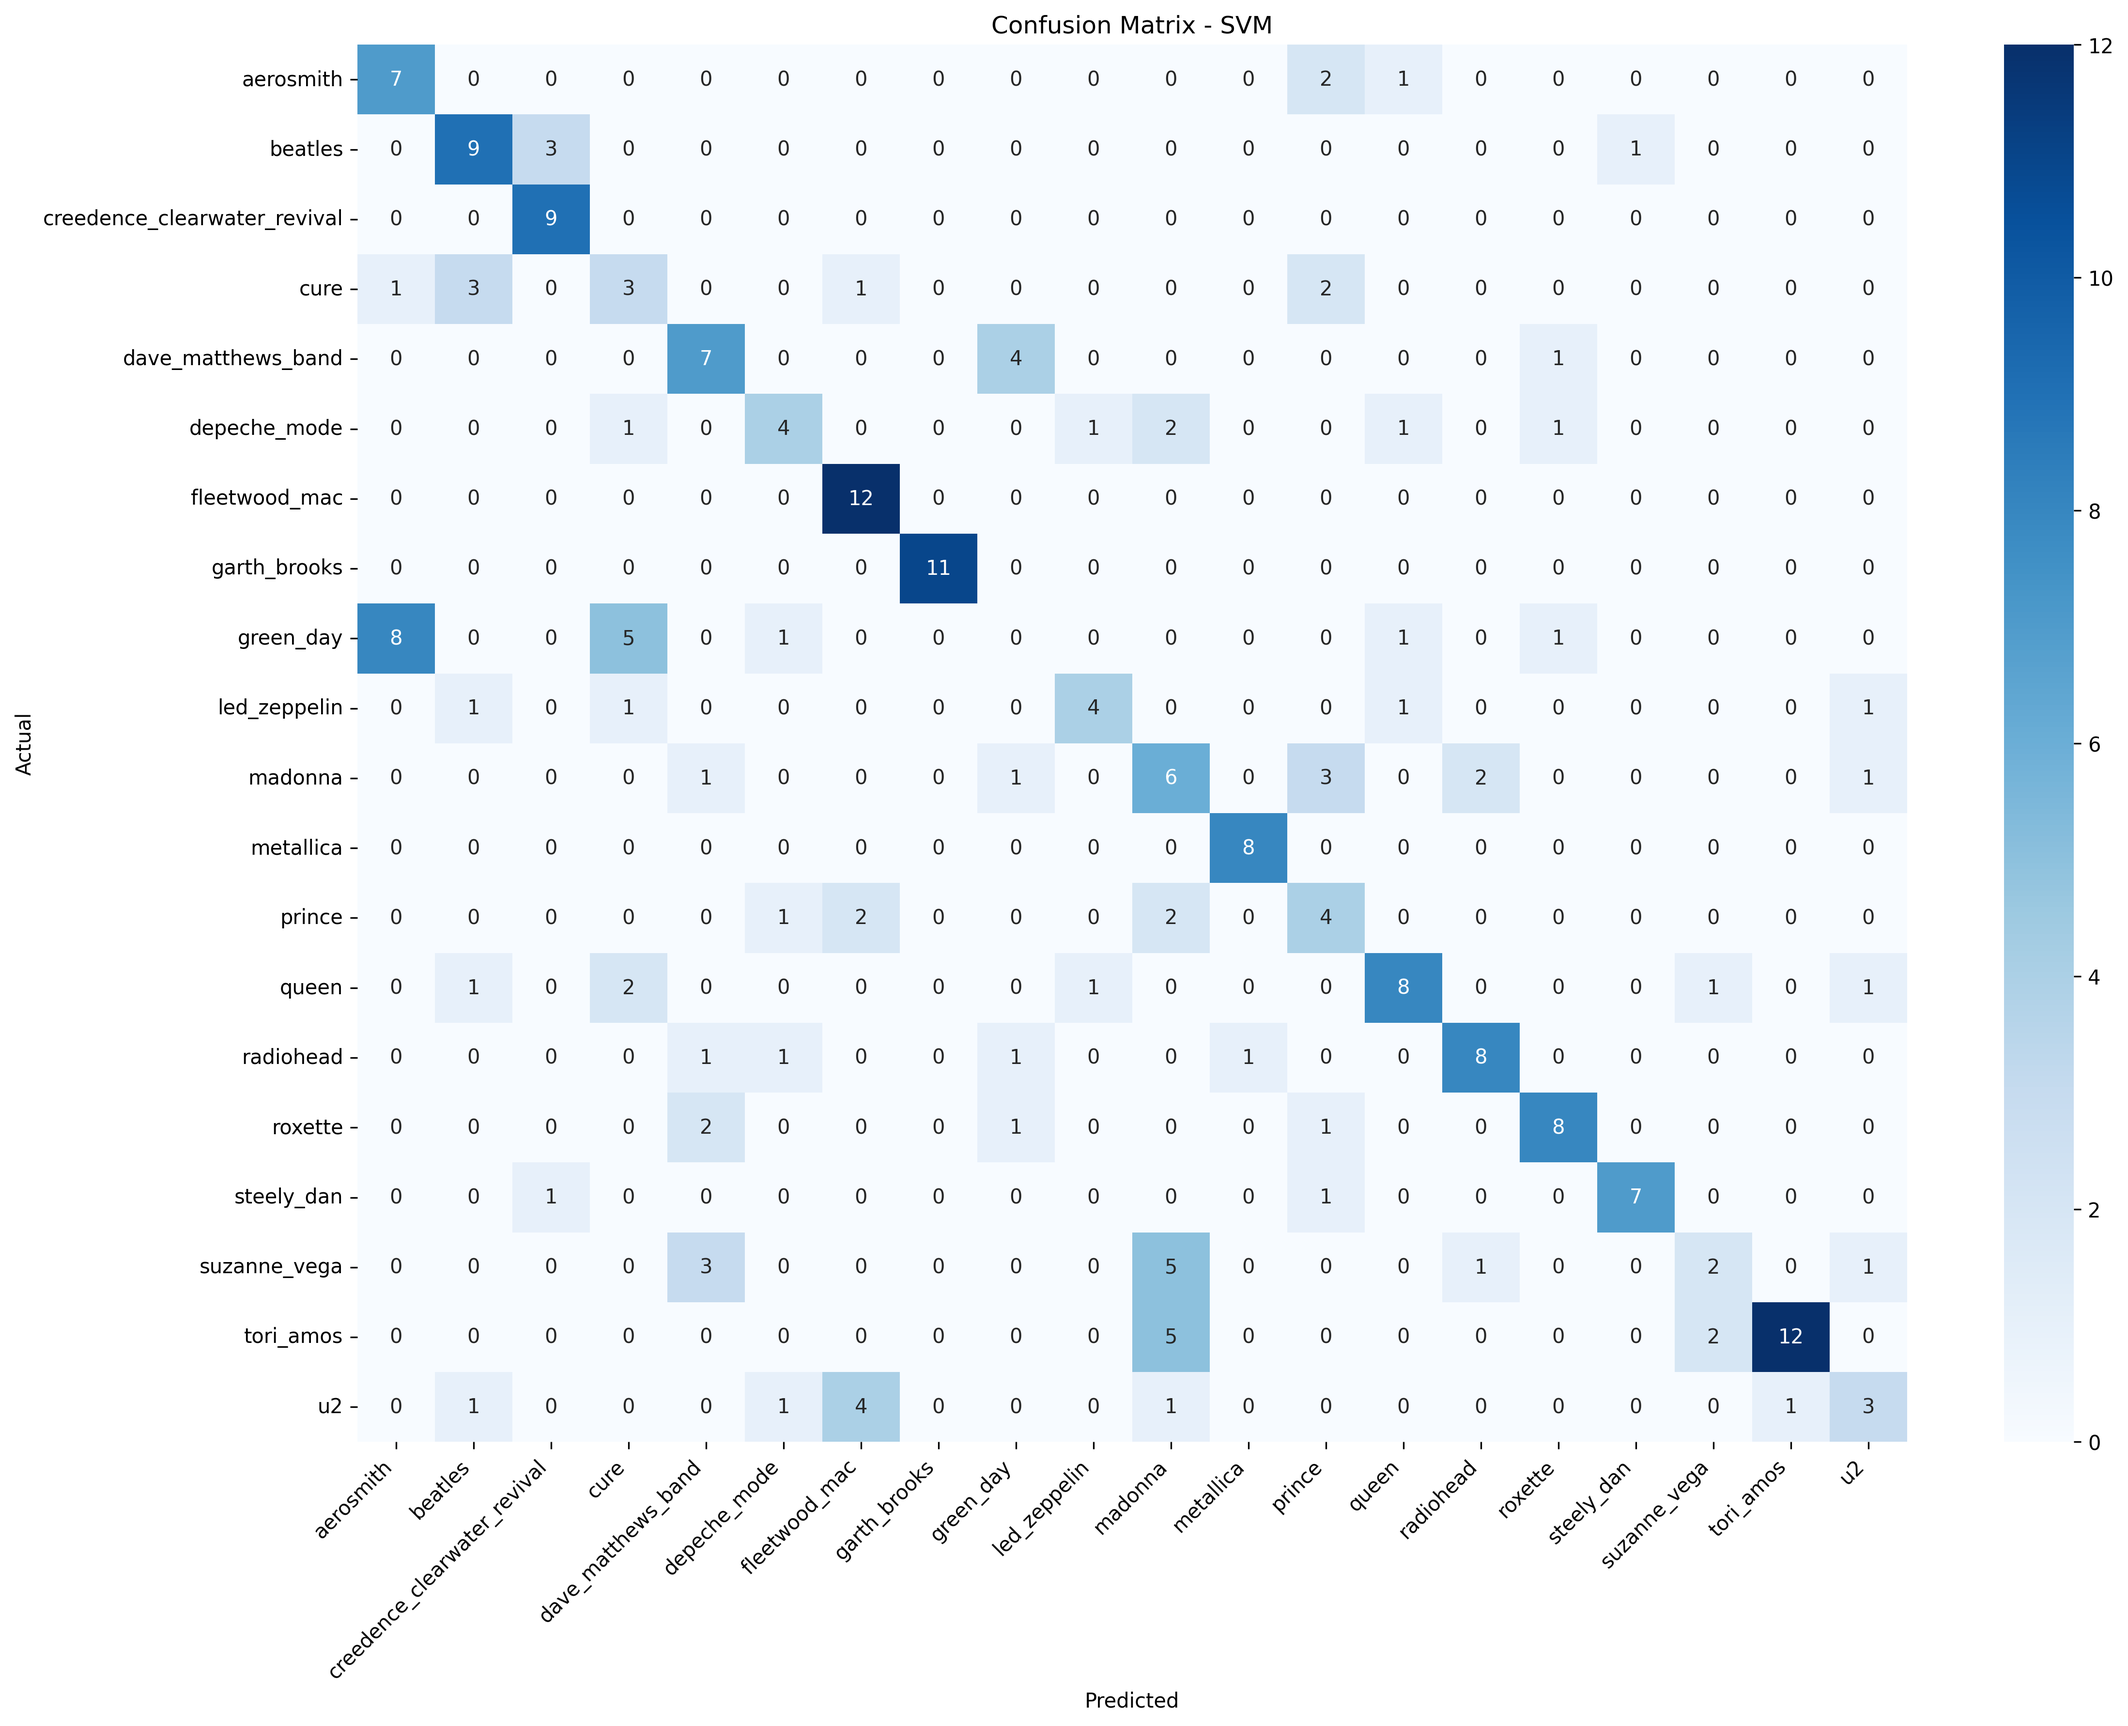
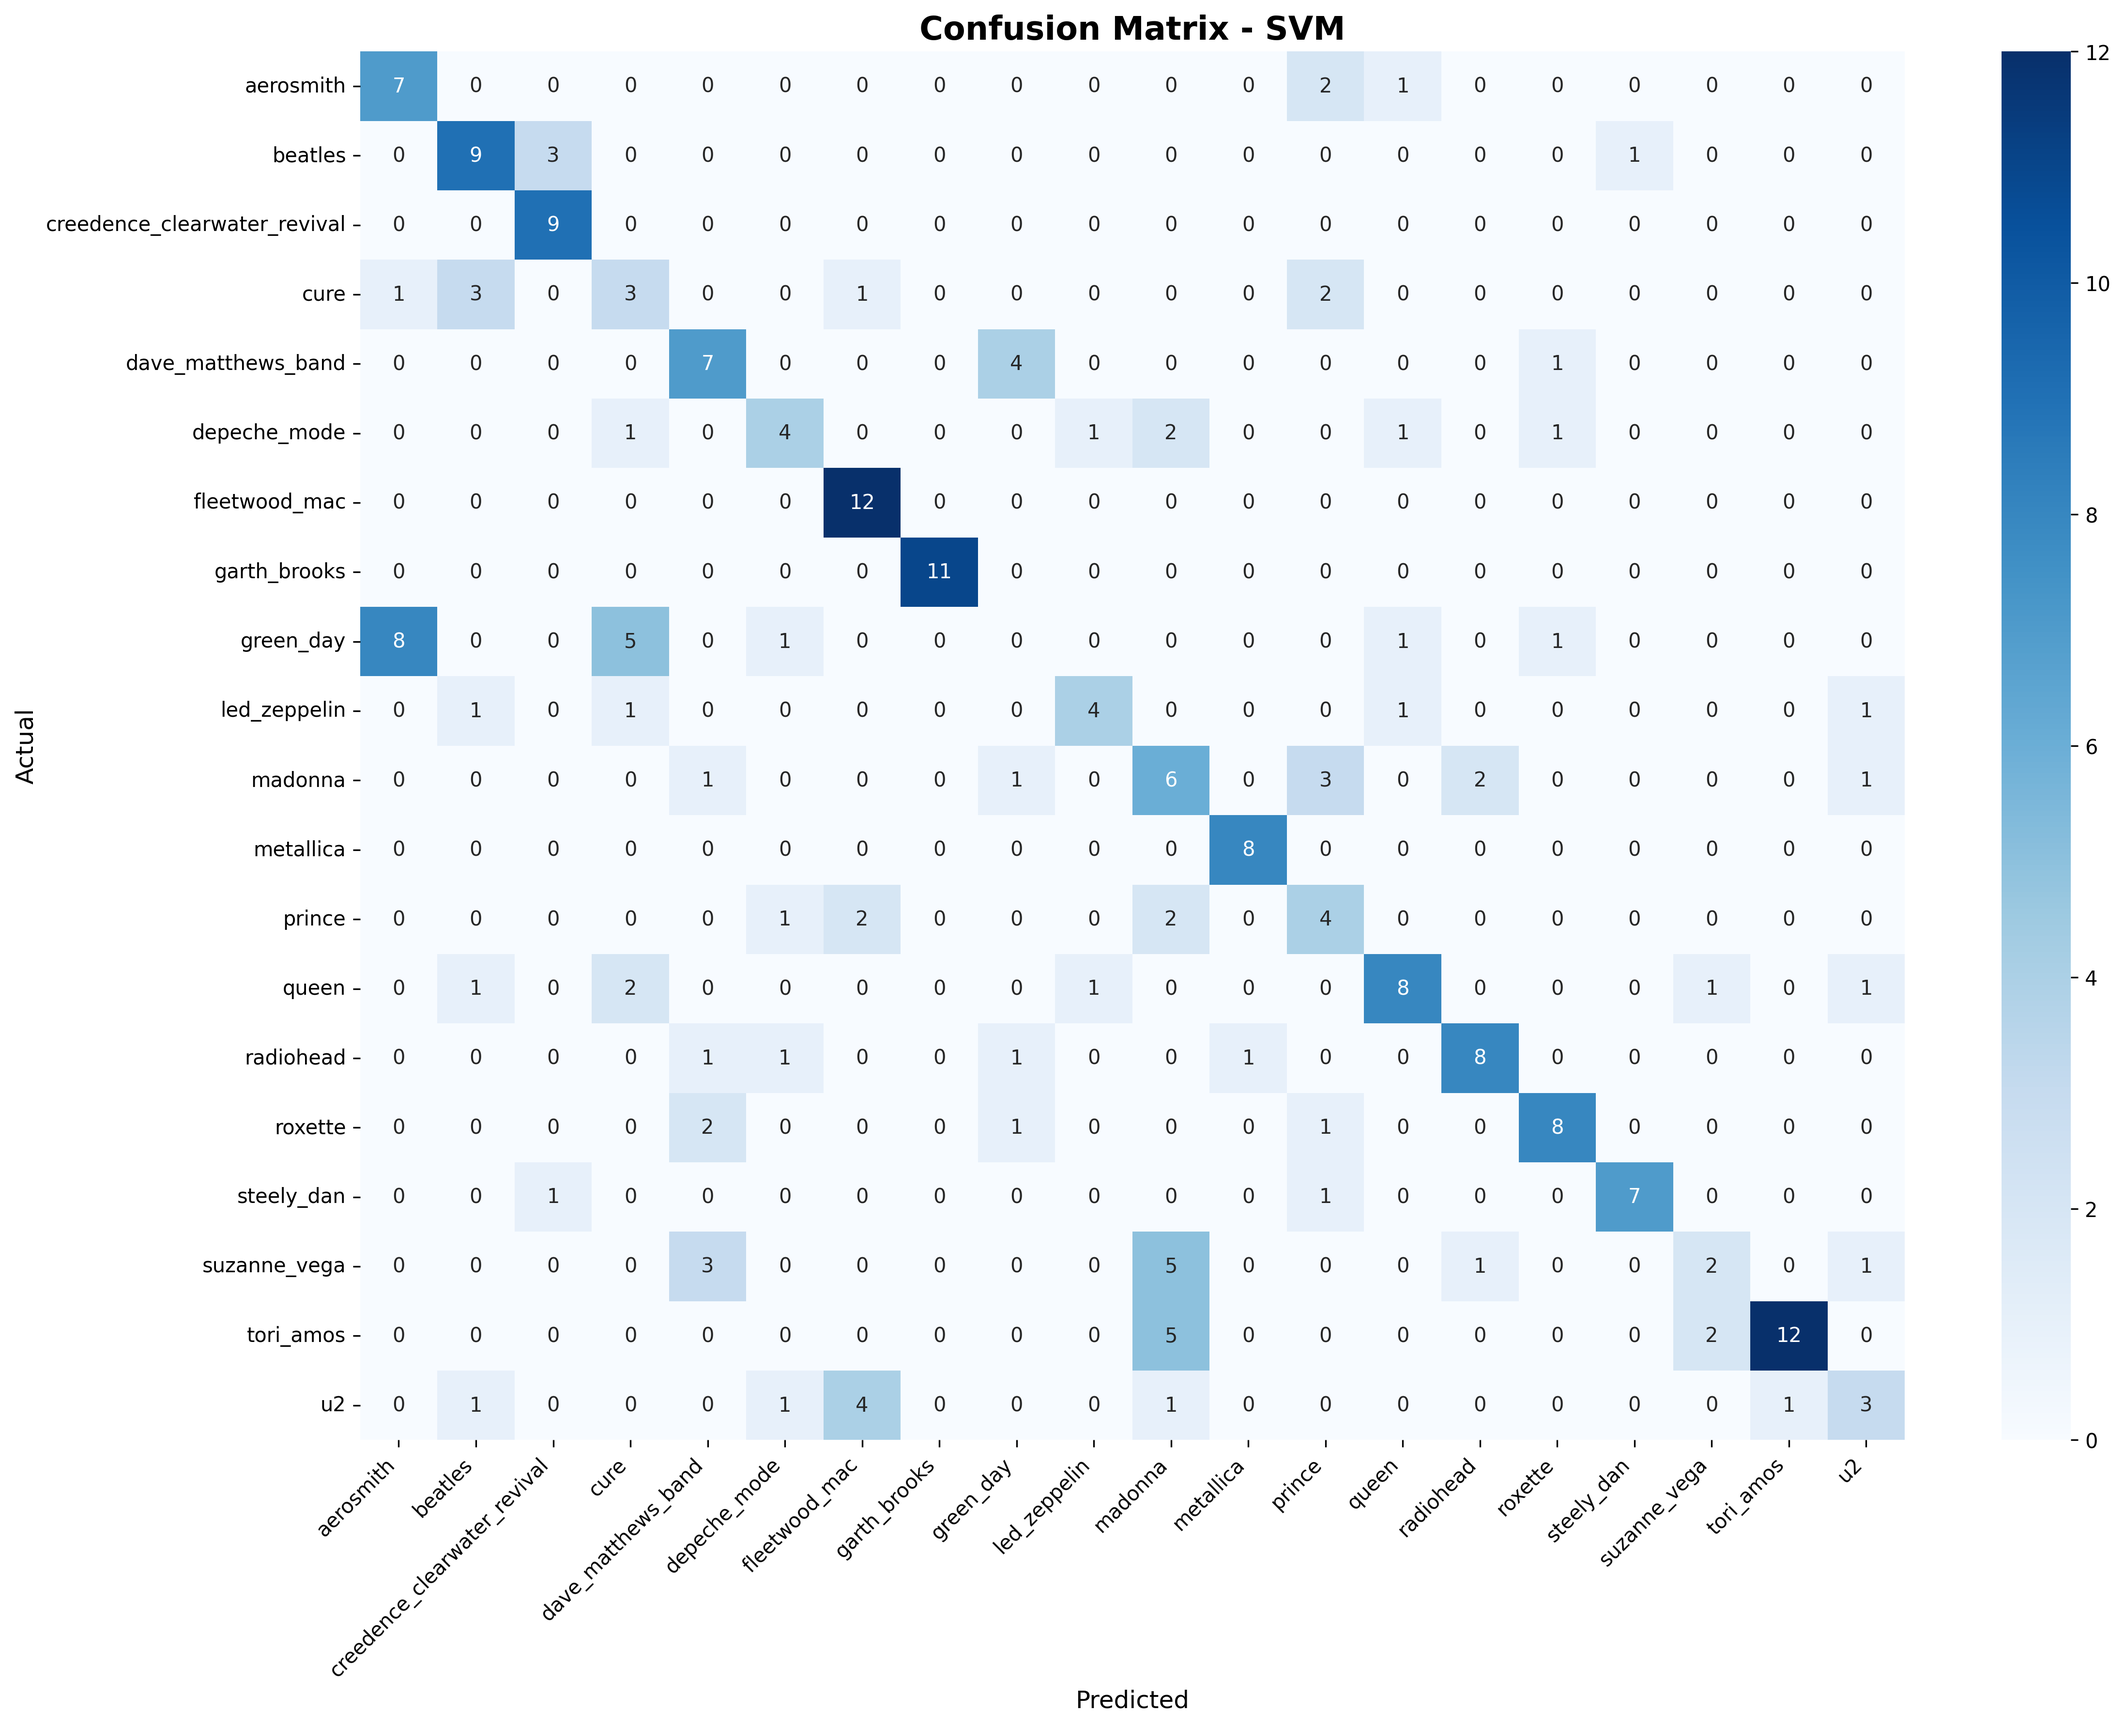
Update task1 report

diff --git a/hw1/task1_gen_report.py b/hw1/task1_gen_report.py
@@ -1,0 +1,186 @@
+"""
+Task 1 Report Generation Script
+Generates all visualizations for Task 1 (Traditional ML) report
+"""
+import numpy as np
+import json
+import pickle
+import matplotlib.pyplot as plt
+import seaborn as sns
+from sklearn.metrics import confusion_matrix, classification_report
+import os
+
+# Set style
+plt.style.use('default')
+sns.set_palette("husl")
+
+
+def load_results():
+    """Load trained models and evaluation results"""
+    print("Loading Task 1 results...")
+
+    # Load results summary
+    with open("results/task1/results_summary.json", "r") as f:
+        results_summary = json.load(f)
+
+    # Load label encoder
+    with open("results/task1/label_encoder.pkl", "rb") as f:
+        label_encoder = pickle.load(f)
+
+    # Load validation data
+    y_val = np.load("results/task1/y_val.npy")
+
+    # Encode labels
+    y_val_encoded = label_encoder.transform(y_val)
+
+    print(f"Best model: {results_summary['best_model']}")
+    print(f"Number of classes: {len(label_encoder.classes_)}")
+
+    return results_summary, label_encoder, y_val_encoded
+
+
+def generate_confusion_matrix(best_model, y_val, label_encoder, output_dir):
+    """Generate confusion matrix for best model"""
+    print("\nGenerating confusion matrix...")
+
+    # Load best model
+    with open("results/task1/best_model.pkl", "rb") as f:
+        model = pickle.load(f)
+
+    # Load scaled validation data
+    X_val_scaled = np.load("results/task1/X_val_scaled.npy")
+
+    # Make predictions
+    y_pred = model.predict(X_val_scaled)
+
+    # Generate confusion matrix
+    cm = confusion_matrix(y_val, y_pred)
+    class_names = label_encoder.classes_
+
+    plt.figure(figsize=(16, 12))
+    sns.heatmap(
+        cm,
+        annot=True,
+        fmt="d",
+        cmap="Blues",
+        xticklabels=class_names,
+        yticklabels=class_names,
+    )
+    plt.title(f"Confusion Matrix - {best_model}", fontsize=16, fontweight='bold')
+    plt.xlabel("Predicted", fontsize=12)
+    plt.ylabel("Actual", fontsize=12)
+    plt.xticks(rotation=45, ha="right")
+    plt.yticks(rotation=0)
+    plt.tight_layout()
+    plt.savefig(
+        os.path.join(output_dir, f"task1_confusion_matrix_{best_model.lower()}.png"),
+        dpi=300,
+        bbox_inches="tight",
+    )
+    plt.close()
+
+    print(f"Confusion matrix saved to {output_dir}/task1_confusion_matrix_{best_model.lower()}.png")
+
+    # Print classification report
+    print(f"\nClassification Report for {best_model}:")
+    print(classification_report(y_val, y_pred, target_names=class_names))
+
+
+def generate_model_comparison(results_summary, output_dir):
+    """Generate model comparison charts"""
+    print("\nGenerating model comparison chart...")
+
+    model_performance = results_summary['model_performance']
+    model_names = list(model_performance.keys())
+    top1_scores = [model_performance[name]["top1_accuracy"] for name in model_names]
+    top3_scores = [model_performance[name]["top3_accuracy"] for name in model_names]
+
+    fig, (ax1, ax2) = plt.subplots(1, 2, figsize=(15, 6))
+
+    # Top-1 accuracy comparison
+    bars1 = ax1.bar(
+        model_names, top1_scores, color=["#ff7f0e", "#2ca02c", "#1f77b4"]
+    )
+    ax1.set_title("Top-1 Accuracy Comparison", fontsize=14, fontweight='bold')
+    ax1.set_ylabel("Accuracy", fontsize=12)
+    ax1.set_ylim(0, 1)
+    ax1.grid(True, alpha=0.3, axis='y')
+    for bar, score in zip(bars1, top1_scores):
+        ax1.text(
+            bar.get_x() + bar.get_width() / 2,
+            bar.get_height() + 0.01,
+            f"{score:.3f}",
+            ha="center",
+            va="bottom",
+            fontweight='bold'
+        )
+
+    # Top-3 accuracy comparison
+    bars2 = ax2.bar(
+        model_names, top3_scores, color=["#ff7f0e", "#2ca02c", "#1f77b4"]
+    )
+    ax2.set_title("Top-3 Accuracy Comparison", fontsize=14, fontweight='bold')
+    ax2.set_ylabel("Accuracy", fontsize=12)
+    ax2.set_ylim(0, 1)
+    ax2.grid(True, alpha=0.3, axis='y')
+    for bar, score in zip(bars2, top3_scores):
+        ax2.text(
+            bar.get_x() + bar.get_width() / 2,
+            bar.get_height() + 0.01,
+            f"{score:.3f}",
+            ha="center",
+            va="bottom",
+            fontweight='bold'
+        )
+
+    plt.tight_layout()
+    plt.savefig(os.path.join(output_dir, "task1_model_comparison.png"), dpi=300, bbox_inches="tight")
+    plt.close()
+
+    print(f"Model comparison chart saved to {output_dir}/task1_model_comparison.png")
+
+
+def main():
+    """Main function to generate all Task 1 report materials"""
+
+    print("="*60)
+    print("Task 1 Report Generation")
+    print("="*60)
+
+    output_dir = "assets"
+
+    # Create output directory
+    os.makedirs(output_dir, exist_ok=True)
+
+    # Check if results exist
+    if not os.path.exists("results/task1/results_summary.json"):
+        print("Error: Task 1 results not found!")
+        print("Please run task1_train.py first.")
+        return
+
+    # Load results
+    results_summary, label_encoder, y_val = load_results()
+
+    # Generate confusion matrix
+    best_model = results_summary['best_model']
+    generate_confusion_matrix(best_model, y_val, label_encoder, output_dir)
+
+    # Generate model comparison
+    generate_model_comparison(results_summary, output_dir)
+
+    # Final summary
+    print("\n" + "="*60)
+    print("Task 1 Report Generation Complete!")
+    print("="*60)
+    print(f"\nGenerated files in {output_dir}/:")
+    print(f"  - task1_confusion_matrix_{best_model.lower()}.png")
+    print("  - task1_model_comparison.png")
+    print(f"\nPerformance Summary:")
+    for model_name, perf in results_summary['model_performance'].items():
+        print(f"  {model_name}: Top-1={perf['top1_accuracy']:.4f}, Top-3={perf['top3_accuracy']:.4f}")
+    print(f"\nBest Model: {best_model}")
+    print("="*60)
+
+
+if __name__ == "__main__":
+    main()

diff --git a/hw1/task1_train.py b/hw1/task1_train.py
@@ -3,17 +3,12 @@ import json
 import pickle
 from sklearn.preprocessing import LabelEncoder, RobustScaler
 from sklearn.svm import SVC
-from sklearn.ensemble import (
-    RandomForestClassifier,
-)
+from sklearn.ensemble import RandomForestClassifier
 from sklearn.neighbors import KNeighborsClassifier
 from sklearn.feature_selection import SelectKBest, f_classif
-from sklearn.metrics import accuracy_score, classification_report, confusion_matrix
+from sklearn.metrics import accuracy_score
 from sklearn.model_selection import GridSearchCV
-import matplotlib.pyplot as plt
-import seaborn as sns
 from tqdm import tqdm
-import torch
 import warnings
 
 warnings.filterwarnings("ignore")
@@ -211,85 +206,10 @@ class TraditionalMLPipeline:
 
         return results, best_model_name
 
-    def generate_reports(self, X_val, y_val, results, best_model_name):
-        print("\nGenerating evaluation reports...")
+    def save_results(self, results, best_model_name):
+        """Save evaluation results to JSON"""
+        print("\nSaving evaluation results...")
 
-        # Classification report for best model
-        best_pred = results[best_model_name]["predictions"]
-        class_names = self.label_encoder.classes_
-
-        print(f"\nClassification Report for {best_model_name}:")
-        print(classification_report(y_val, best_pred, target_names=class_names))
-
-        # Confusion Matrix
-        cm = confusion_matrix(y_val, best_pred)
-
-        plt.figure(figsize=(16, 12))
-        sns.heatmap(
-            cm,
-            annot=True,
-            fmt="d",
-            cmap="Blues",
-            xticklabels=class_names,
-            yticklabels=class_names,
-        )
-        plt.title(f"Confusion Matrix - {best_model_name}")
-        plt.xlabel("Predicted")
-        plt.ylabel("Actual")
-        plt.xticks(rotation=45, ha="right")
-        plt.yticks(rotation=0)
-        plt.tight_layout()
-        plt.savefig(
-            f"results/task1/confusion_matrix_{best_model_name.lower()}.png",
-            dpi=300,
-            bbox_inches="tight",
-        )
-        plt.close()
-
-        # Model comparison
-        model_names = list(results.keys())
-        top1_scores = [results[name]["top1_accuracy"] for name in model_names]
-        top3_scores = [results[name]["top3_accuracy"] for name in model_names]
-
-        fig, (ax1, ax2) = plt.subplots(1, 2, figsize=(15, 6))
-
-        # Top-1 accuracy comparison
-        bars1 = ax1.bar(
-            model_names, top1_scores, color=["#ff7f0e", "#2ca02c", "#1f77b4"]
-        )
-        ax1.set_title("Top-1 Accuracy Comparison")
-        ax1.set_ylabel("Accuracy")
-        ax1.set_ylim(0, 1)
-        for bar, score in zip(bars1, top1_scores):
-            ax1.text(
-                bar.get_x() + bar.get_width() / 2,
-                bar.get_height() + 0.01,
-                f"{score:.3f}",
-                ha="center",
-                va="bottom",
-            )
-
-        # Top-3 accuracy comparison
-        bars2 = ax2.bar(
-            model_names, top3_scores, color=["#ff7f0e", "#2ca02c", "#1f77b4"]
-        )
-        ax2.set_title("Top-3 Accuracy Comparison")
-        ax2.set_ylabel("Accuracy")
-        ax2.set_ylim(0, 1)
-        for bar, score in zip(bars2, top3_scores):
-            ax2.text(
-                bar.get_x() + bar.get_width() / 2,
-                bar.get_height() + 0.01,
-                f"{score:.3f}",
-                ha="center",
-                va="bottom",
-            )
-
-        plt.tight_layout()
-        plt.savefig("results/task1/model_comparison.png", dpi=300, bbox_inches="tight")
-        plt.close()
-
-        # Save results
         results_summary = {
             "best_model": best_model_name,
             "model_performance": {
@@ -304,7 +224,7 @@ class TraditionalMLPipeline:
         with open("results/task1/results_summary.json", "w") as f:
             json.dump(results_summary, f, indent=2)
 
-        print("Reports saved to results/task1/")
+        print("Results saved to results/task1/results_summary.json")
 
     def save_model(self):
         print("Saving trained models...")
@@ -339,20 +259,20 @@ def main():
         # Train models
         pipeline.train_models(X_train_scaled, y_train_encoded)
 
+        # Save scaled validation data for report generation
+        np.save("results/task1/X_val_scaled.npy", X_val_scaled)
+
         # Evaluate models
         results, best_model_name = pipeline.evaluate_models(X_val_scaled, y_val_encoded)
 
-        # Generate reports
-        pipeline.generate_reports(X_val_scaled, y_val_encoded, results, best_model_name)
+        # Save results
+        pipeline.save_results(results, best_model_name)
 
         # Save model
         pipeline.save_model()
 
-        print("\nTask 1 implementation completed successfully!")
-        print("Check results/task1/ for all outputs including:")
-        print("- Model comparison plots")
-        print("- Confusion matrix")
-        print("- Performance metrics")
+        print("\nTask 1 training completed successfully!")
+        print("Run task1_gen_report.py to generate visualizations")
 
     except Exception as e:
         print(f"Error in pipeline: {e}")

diff --git a/hw1/report.md b/hw1/report.md
@@ -225,9 +225,9 @@ style: @import url('https://unpkg.com/tailwindcss@^2/dist/utilities.min.css');
 <div>
 
 ### Task 1: Traditional ML
-- `task1_train.py`
-- Features: Multi-kernel SVM (RBF, Linear, Poly), Random Forest, k-NN
-- Outputs: Model files, confusion matrix, comparison charts
+- `task1_preprocessing.py` -> Extract features and preprocess data
+- `task1_train.py` -> Train models and save results
+- `task1_gen_report.py` -> Generate confusion matrix and comparison charts
 
 </div>
 <div>
